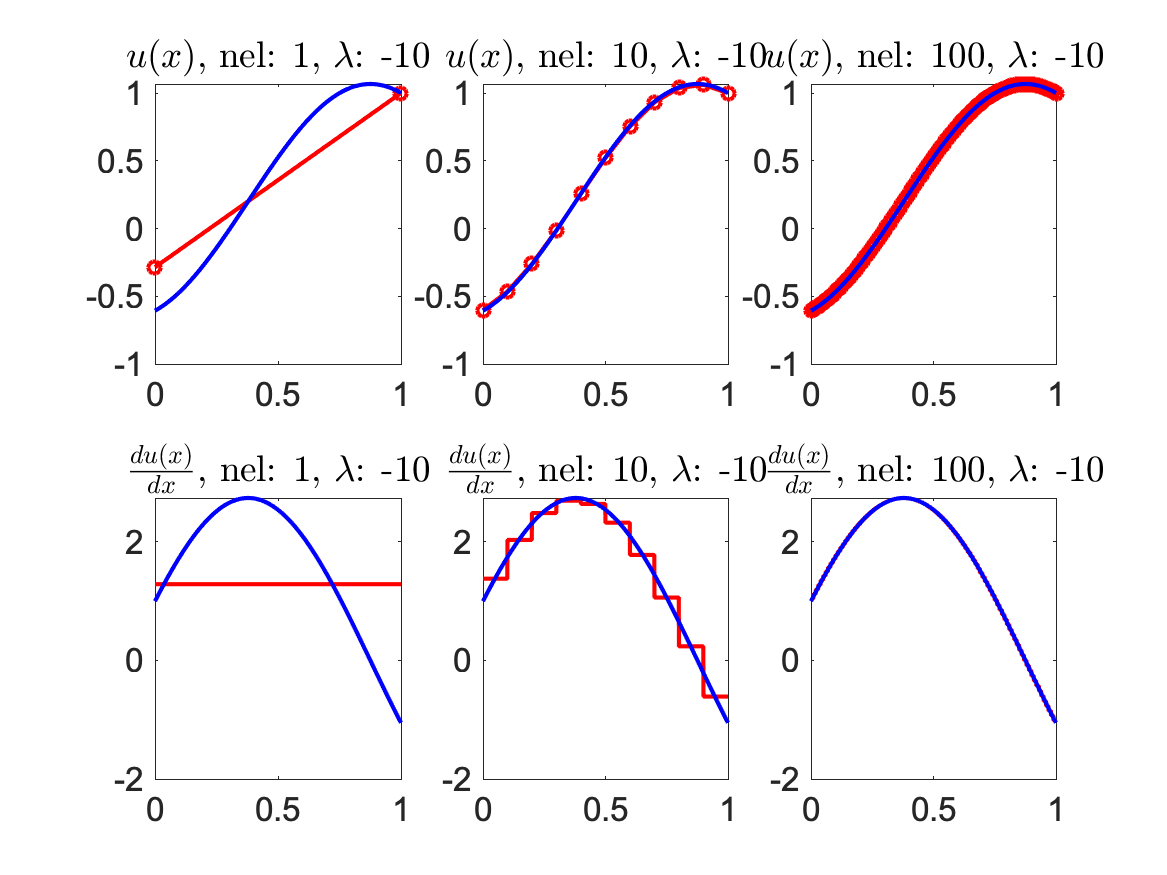
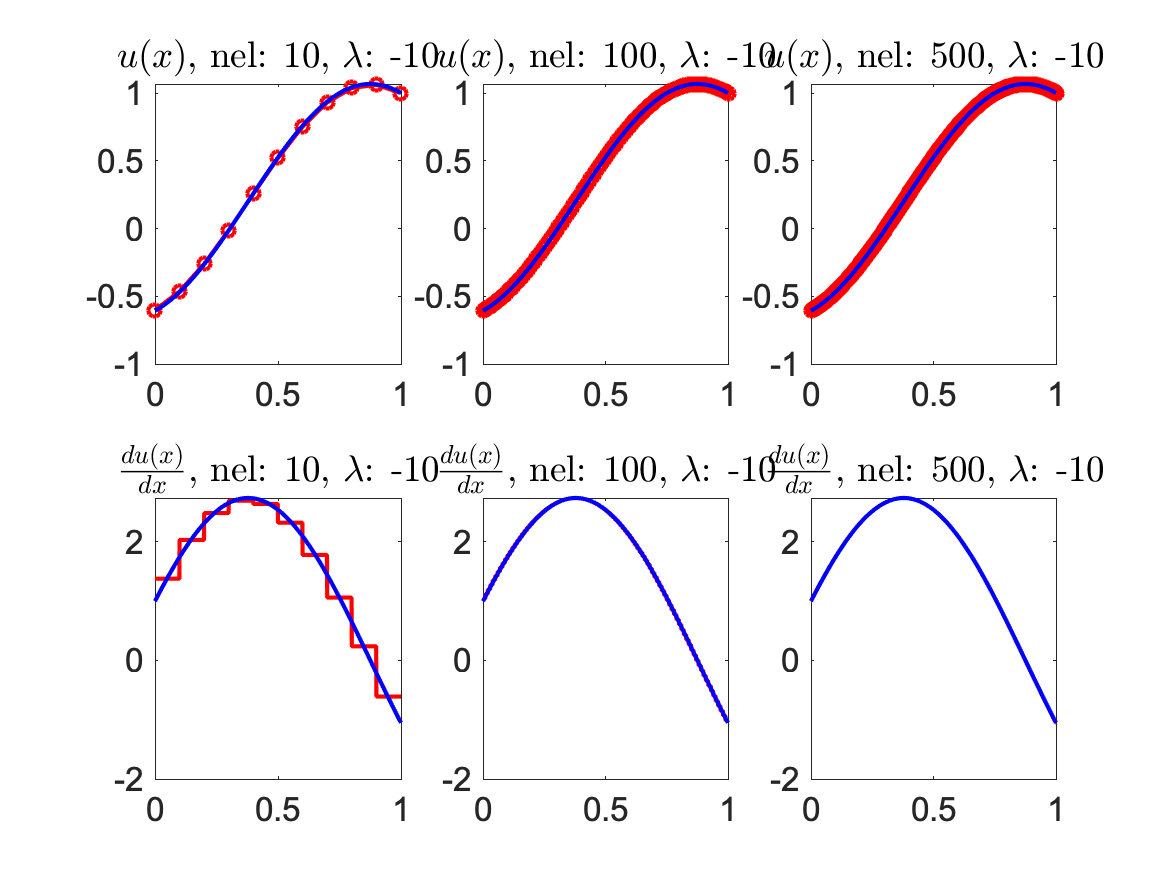
A ready version for cp1 q7

diff --git a/HW/CP1/CP1_refactor_p7.m b/HW/CP1/CP1_refactor_p7.m
@@ -27,10 +27,13 @@ display("Second-order problems with P1 finite elements")
 % Fe:       element load vector
 
 %% Build a mesh  -- Elements are implicitly defined by two consecutive vertices
-nel_array = [1, 10, 100]; % input array for element number
+nel_array = [10, 100, 500]; % input array for element number
 lambda_array = [-10, 0, 10]; % input array for lambda
 fig_count1 = 1; % counter for function and its derivative
 output_folder = 'plots';
+u_error = zeros(9,1);
+u_prime_error = zeros(9,1);
+error_count = 1; % counter for recording error
 
 if ~exist(output_folder, 'dir')
     mkdir(output_folder);
@@ -204,7 +207,23 @@ for k=1:length(lambda_array)
     % Update fig_count1
     fig_count1 = fig_count1 + 1;
     
+    % display error table
+    disptable(lambda, nel_array, u_error((k - 1)*3 + 1: (k)*3),...
+                u_prime_error((k - 1)*3 + 1: (k)*3));
+    
 end
+
+%% error plots
+close all
+nel_2D_array = repmat(nel_array, 3, 1);
+
+full_output_path = fullfile(output_folder, 'error_u.png');
+loglog_error_plot(reshape(u_error, [3, 3]), nel_2D_array, 1, ...
+                 full_output_path,lambda_array );
+
+full_output_path = fullfile(output_folder, 'error_u_prime.png');
+loglog_error_plot(reshape(u_prime_error, [3, 3]), nel_2D_array, 2,...
+                full_output_path, lambda_array);
 
 %% element matrix and load
 function [Ke, Fe]=elementKandF(xe,fe,lambdae,hhe)
@@ -234,4 +253,73 @@ function [N1, N2, dN1, dN2]=P1(x)
   dN1 = -1; 
   dN2 = 1;
   % <<-------------------------->> 
+end
+
+%% display table
+function disptable( lambda, nel_array, error_u, error_u_prime)
+    % Compute the 'h' array
+    disp('Table: Error')
+    
+    h = 1./ nel_array;
+    
+    % Combine the arrays into a single matrix
+    lambda = ones(size(nel_array)) * lambda;
+    data = [lambda(:), nel_array(:), h(:), error_u(:), error_u_prime(:)];
+
+    % Define the column names
+    colname = ["Lambda", "nel", "h", "||u-u_h||", "||u'-u_h'||"];
+
+    % Display the table
+    disp(array2table(data, 'VariableNames', colname))
+end
+
+%% log-log error plot
+function loglog_error_plot(error_array, h_array, opt, full_output_path, lambda_array)
+    figure;
+    hold on;
+
+    % Define colors for lines and markers
+    colors = {'r', 'g', 'b'};
+
+    for i = 1:3
+        % Extract error and h data from each column
+        error_data = error_array(:, i);
+        h_data = h_array(i, :);
+
+        % Plot the scatter points for each row using loglog
+        loglog(h_data, error_data, 'o', 'MarkerEdgeColor', colors{i}, 'MarkerFaceColor', colors{i});
+
+        % Fit a linear line to the log-log data
+        p = polyfit(log(h_data), log(error_data), 1);
+
+        % Calculate the fitted line
+        fitted_line = h_data .^ p(1) * exp(p(2));
+
+        % Plot the fitted line using loglog
+        loglog(h_data, fitted_line, colors{i}, 'LineWidth', 1.5);
+    end
+
+    grid on;
+
+    % Set labels and title
+    xlabel('log(1/h)');
+    ylabel('Error');
+
+    if (opt == 1)
+        title(('$u(x)$, Nel vs. Error '), 'Interpreter', 'latex');
+    else
+        title(('$\frac{du(x)}{dx}$, Nel vs. Error'), 'Interpreter', 'latex');
+    end
+
+    legend_text = strings(1, 6);
+    for i = 1:3
+        legend_text(2*i-1) = ['Error ', num2str(i), '. $\lambda = ', num2str(lambda_array(i)), '$'];
+        legend_text(2*i) = ['Fit ', num2str(i)];
+    end
+    lgd = legend(legend_text, 'Location', 'Best', 'Interpreter', 'latex');
+    lgd.FontSize = 14;
+
+    hold off;
+    set(gca, 'XScale', 'log', 'YScale', 'log');
+    saveas(gcf, full_output_path);
 end
